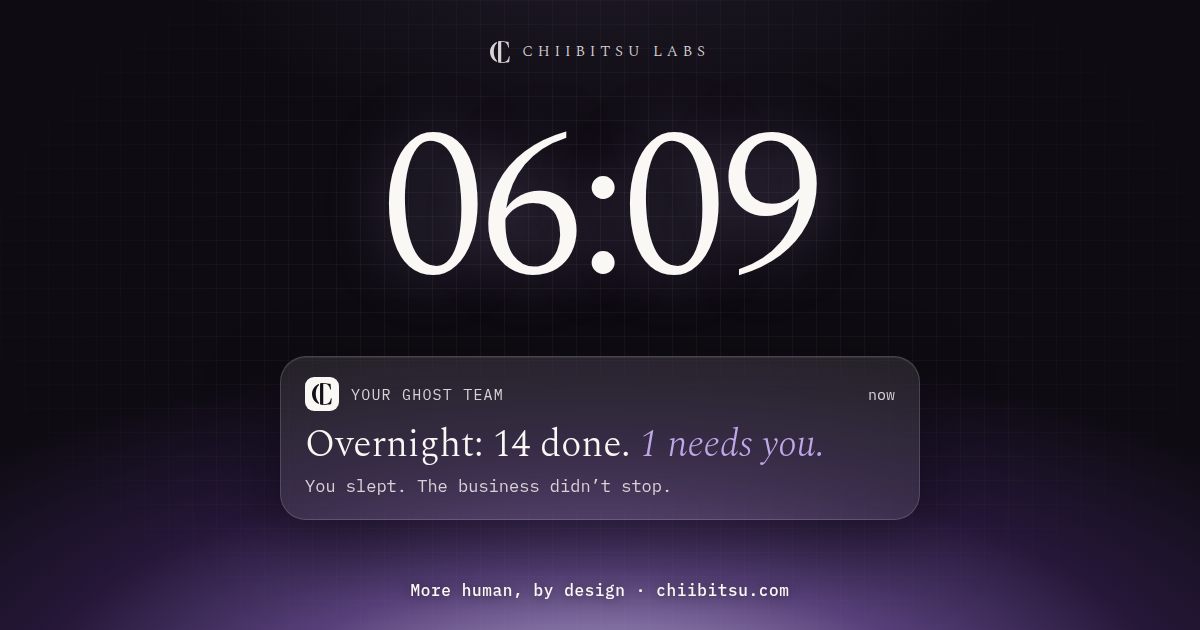
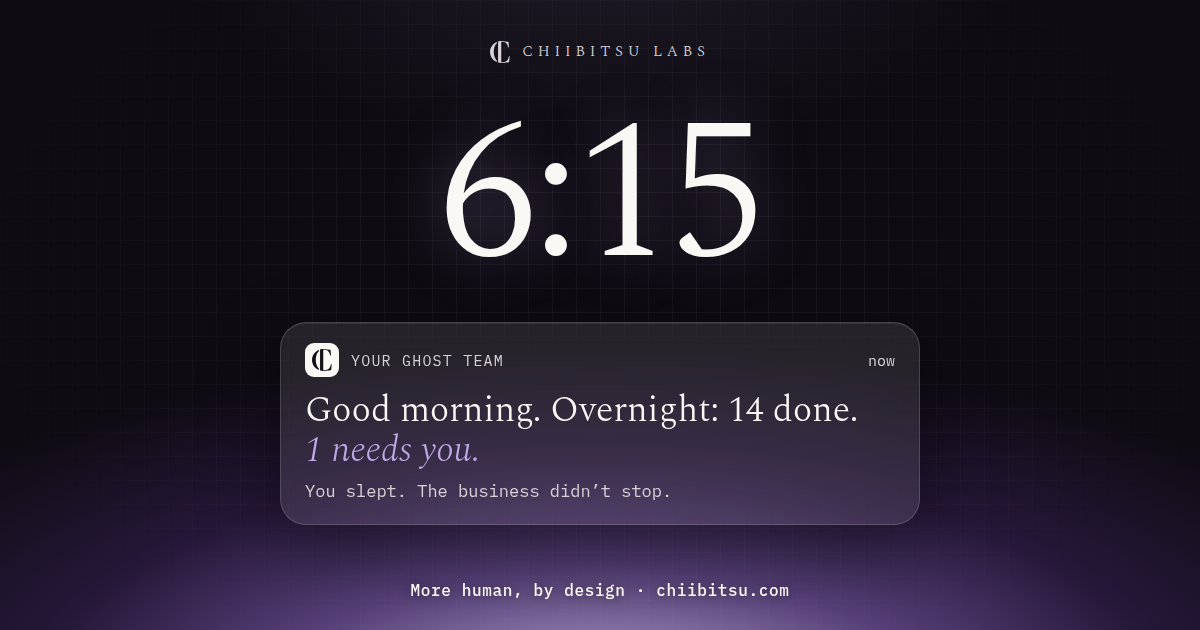
6:15 as the house time: share card and the film's morning clock, with a good morning
Claude-Session: https://claude.ai/code/session_014U3uX5UK1p1LCDLmF9v9RL

diff --git a/design/og-woah.html b/design/og-woah.html
@@ -42,16 +42,16 @@ body{background:#0E0B12;color:#FAF8F4;font-family:'IBM Plex Mono',monospace;posi
 .top svg{height:22px} .top svg path{fill:#D8D2D6}
 .top span{font-family:Spectral,serif;font-weight:300;font-size:15px;letter-spacing:.32em;text-transform:uppercase}
 .date{position:absolute;left:0;right:0;top:92px;text-align:center;font-size:20px;color:#D8D2D6;letter-spacing:.02em}
-.time{position:absolute;left:0;right:0;top:106px;text-align:center;font-family:Spectral,serif;font-weight:300;font-size:210px;line-height:1;letter-spacing:-.03em;
+.time{position:absolute;left:0;right:0;top:96px;text-align:center;font-family:Spectral,serif;font-weight:300;font-size:200px;line-height:1;letter-spacing:-.03em;
  text-shadow:0 0 60px rgba(192,168,232,.35)}
-.note{position:absolute;left:50%;top:356px;transform:translateX(-50%);width:640px;padding:20px 24px 22px;border-radius:26px;
+.note{position:absolute;left:50%;top:322px;transform:translateX(-50%);width:640px;padding:20px 24px 22px;border-radius:26px;
  background:rgba(250,248,244,.10);border:1px solid rgba(250,248,244,.16);backdrop-filter:blur(20px);
  box-shadow:0 30px 80px rgba(0,0,0,.45), inset 0 1px 0 rgba(255,255,255,.08)}
 .nh{display:flex;align-items:center;gap:12px;font-size:15px;color:#D8D2D6}
 .app{width:34px;height:34px;border-radius:9px;background:#FAF8F4;display:grid;place-items:center}
 .app svg{height:22px} .app svg path{fill:#141018}
 .nh .who{flex:1;letter-spacing:.08em;text-transform:uppercase}
-.nt{margin-top:14px;font-family:Spectral,serif;font-weight:300;font-size:38px;line-height:1.1}
+.nt{margin-top:14px;font-family:Spectral,serif;font-weight:300;font-size:36px;line-height:1.12}
 .nt em{font-style:italic;color:#C0A8E8}
 .nb{margin-top:8px;font-size:17px;color:#D8D2D6}
 .foot{position:absolute;left:0;right:0;bottom:30px;text-align:center;font-size:16px;color:#FAF8F4;font-weight:500;letter-spacing:.04em;text-shadow:0 1px 12px rgba(20,16,24,.6)}
@@ -59,11 +59,11 @@ body{background:#0E0B12;color:#FAF8F4;font-family:'IBM Plex Mono',monospace;posi
 <div class="dawn"></div><div class="grid"></div>
 <div class="top"><svg viewBox="285 203 1430 1592"><path fill-rule="evenodd" d="M870.9 1754.3 C866 1746.7 868.4 1733.6 868.4 1724.9 C868.3 1701.8 868.5 1678.8 868.6 1655.8 C868.9 1567.8 868.2 1479.8 868.2 1391.7 C868.1 1119.6 867.6 847.5 868.1 575.4 C868.2 497.4 868.4 419.3 868.3 341.3 C868.3 317.3 868.2 293.3 868.4 269.3 C868.6 260 866.4 248.2 869.9 239.5 C876.7 232.2 902.2 230.1 912.5 227.1 C945.6 217.8 1016.9 208.7 1051.9 207.3 C1135.5 204 1201.8 203.3 1285.5 213.4 C1328.2 218.5 1370.5 226.9 1412.6 234.9 C1434.1 239.1 1455.3 245.6 1476.9 249.4 C1507.4 254.9 1537.7 261.3 1568.4 265.6 C1578.2 267 1618.6 271.2 1624.6 274 C1630.2 280.5 1630 291.7 1630.8 299.8 C1632.8 321.7 1634.1 343.7 1636 365.6 C1639.2 401.5 1641 437.5 1643.7 473.4 C1646.8 512.9 1651.7 553.5 1653.6 593 C1654.3 608.4 1662.6 662.9 1657.1 673.4 C1650.4 677.1 1607.3 677.2 1601.3 672.8 C1597.6 665.4 1590.3 622.9 1587.8 611.5 C1581.6 583.5 1571.3 555.5 1560.4 529.1 C1511.6 410.2 1432.2 322.2 1308 281.8 C1288 275.3 1268.1 269.1 1247.2 265.9 C1241.3 265 1235.6 263.1 1229.6 262.2 C1199.8 257.6 1170 256 1139.9 255.9 C1130.4 255.9 1109.1 253.4 1101.7 259 C1097.7 267.4 1099.9 279.5 1099.9 288.6 C1099.9 309.6 1099.9 330.6 1099.9 351.7 C1099.9 427.7 1099.9 503.7 1100 579.7 C1100.2 849.8 1099.8 1120 1099.9 1390.1 C1099.9 1475.1 1099.8 1560.1 1099.9 1645.2 C1099.9 1666.2 1099.9 1687.2 1100 1708.2 C1100.1 1716.2 1097.8 1727.9 1103.3 1734.3 C1112.8 1739.3 1128.2 1737.5 1138.9 1738 C1169 1739.4 1198.7 1737.9 1228.8 1735.7 C1329.7 1728.3 1423.7 1700.1 1500.1 1630.6 C1539.4 1594.8 1568.6 1549.2 1592.3 1502.2 C1615.7 1456 1625.7 1415.4 1640.8 1367.1 C1644.4 1355.7 1650.4 1313 1657.2 1307 C1665.4 1304.8 1704 1304.4 1710.5 1308.6 C1715.1 1317.6 1711.3 1331.5 1710 1341.1 C1706.8 1363.9 1706 1386.9 1703.2 1409.7 C1697.6 1454.4 1694.4 1499.3 1690.4 1544.1 C1687.7 1573 1683.8 1601.8 1681.2 1630.6 C1680.3 1640.6 1680.3 1650.6 1679.3 1660.5 C1678.2 1670.5 1676.1 1680.3 1675.4 1690.3 C1674.7 1701.4 1676.4 1715.7 1670.5 1725.6 C1663.6 1731.8 1627 1738.9 1616.2 1741.1 C1568 1750.8 1532 1756.8 1483.2 1763.1 C1437.5 1769.1 1391.9 1774 1346.1 1778.8 C1242.7 1789.6 1138.8 1799.3 1034.9 1787.8 C1027.9 1787 1021.1 1785.2 1014.2 1784.3 C979.7 1779.7 953.6 1774.7 919.7 1768 C905.3 1765.1 883.3 1762 870.9 1754.3 Z"/><path fill-rule="evenodd" d="M784.2 1726.3 C770.5 1724.4 724.4 1701.1 710.5 1693.4 C638.2 1653.4 581.5 1614.2 521.7 1556.5 C434.3 1472.3 356.2 1353.2 324.4 1235.6 C319.7 1218.4 312.6 1201.4 309.2 1183.9 C300.5 1139.3 295.8 1110.8 291.4 1065.4 C283.5 984.2 286.9 900.3 304.2 820.6 C308 803 313.8 786 318.7 768.7 C346 672.5 395.1 583.1 457.7 505.2 C520.3 427.3 599.6 362.8 686.3 313.6 C702.4 304.4 769.1 269.2 783.8 268 C790 272.2 787.7 283.8 787.7 290.5 C787.7 307 790.4 352.2 786.5 365.4 C781.6 372.7 750.3 398.5 740.7 408.5 C711.4 439.2 685.1 475.2 665.5 512.9 C632.1 577.3 607.9 644.3 589.6 714.3 C583.8 736.6 580.8 759.4 576.7 782 C556.7 890.4 555.5 1019.2 568.2 1128.8 C571.5 1157.7 577.4 1186.1 582.5 1214.6 C584.8 1227.3 586.7 1240.2 589.8 1252.8 C613.3 1348.8 646.8 1443 701.8 1525.9 C717.6 1549.9 736.1 1573.2 756.7 1593.2 C765.7 1601.9 777.3 1610.3 784.8 1620.3 C789.4 1626.6 787.8 1636.3 787.9 1643.7 C787.9 1662.7 787.7 1681.7 788 1700.7 C788.1 1707.9 790.7 1721.6 784.2 1726.3 Z"/>
 </svg><span>Chiibitsu Labs</span></div>
-<div class="time">06:09</div>
+<div class="time">6:15</div>
 <div class="note">
  <div class="nh"><div class="app"><svg viewBox="285 203 1430 1592"><path fill-rule="evenodd" d="M870.9 1754.3 C866 1746.7 868.4 1733.6 868.4 1724.9 C868.3 1701.8 868.5 1678.8 868.6 1655.8 C868.9 1567.8 868.2 1479.8 868.2 1391.7 C868.1 1119.6 867.6 847.5 868.1 575.4 C868.2 497.4 868.4 419.3 868.3 341.3 C868.3 317.3 868.2 293.3 868.4 269.3 C868.6 260 866.4 248.2 869.9 239.5 C876.7 232.2 902.2 230.1 912.5 227.1 C945.6 217.8 1016.9 208.7 1051.9 207.3 C1135.5 204 1201.8 203.3 1285.5 213.4 C1328.2 218.5 1370.5 226.9 1412.6 234.9 C1434.1 239.1 1455.3 245.6 1476.9 249.4 C1507.4 254.9 1537.7 261.3 1568.4 265.6 C1578.2 267 1618.6 271.2 1624.6 274 C1630.2 280.5 1630 291.7 1630.8 299.8 C1632.8 321.7 1634.1 343.7 1636 365.6 C1639.2 401.5 1641 437.5 1643.7 473.4 C1646.8 512.9 1651.7 553.5 1653.6 593 C1654.3 608.4 1662.6 662.9 1657.1 673.4 C1650.4 677.1 1607.3 677.2 1601.3 672.8 C1597.6 665.4 1590.3 622.9 1587.8 611.5 C1581.6 583.5 1571.3 555.5 1560.4 529.1 C1511.6 410.2 1432.2 322.2 1308 281.8 C1288 275.3 1268.1 269.1 1247.2 265.9 C1241.3 265 1235.6 263.1 1229.6 262.2 C1199.8 257.6 1170 256 1139.9 255.9 C1130.4 255.9 1109.1 253.4 1101.7 259 C1097.7 267.4 1099.9 279.5 1099.9 288.6 C1099.9 309.6 1099.9 330.6 1099.9 351.7 C1099.9 427.7 1099.9 503.7 1100 579.7 C1100.2 849.8 1099.8 1120 1099.9 1390.1 C1099.9 1475.1 1099.8 1560.1 1099.9 1645.2 C1099.9 1666.2 1099.9 1687.2 1100 1708.2 C1100.1 1716.2 1097.8 1727.9 1103.3 1734.3 C1112.8 1739.3 1128.2 1737.5 1138.9 1738 C1169 1739.4 1198.7 1737.9 1228.8 1735.7 C1329.7 1728.3 1423.7 1700.1 1500.1 1630.6 C1539.4 1594.8 1568.6 1549.2 1592.3 1502.2 C1615.7 1456 1625.7 1415.4 1640.8 1367.1 C1644.4 1355.7 1650.4 1313 1657.2 1307 C1665.4 1304.8 1704 1304.4 1710.5 1308.6 C1715.1 1317.6 1711.3 1331.5 1710 1341.1 C1706.8 1363.9 1706 1386.9 1703.2 1409.7 C1697.6 1454.4 1694.4 1499.3 1690.4 1544.1 C1687.7 1573 1683.8 1601.8 1681.2 1630.6 C1680.3 1640.6 1680.3 1650.6 1679.3 1660.5 C1678.2 1670.5 1676.1 1680.3 1675.4 1690.3 C1674.7 1701.4 1676.4 1715.7 1670.5 1725.6 C1663.6 1731.8 1627 1738.9 1616.2 1741.1 C1568 1750.8 1532 1756.8 1483.2 1763.1 C1437.5 1769.1 1391.9 1774 1346.1 1778.8 C1242.7 1789.6 1138.8 1799.3 1034.9 1787.8 C1027.9 1787 1021.1 1785.2 1014.2 1784.3 C979.7 1779.7 953.6 1774.7 919.7 1768 C905.3 1765.1 883.3 1762 870.9 1754.3 Z"/><path fill-rule="evenodd" d="M784.2 1726.3 C770.5 1724.4 724.4 1701.1 710.5 1693.4 C638.2 1653.4 581.5 1614.2 521.7 1556.5 C434.3 1472.3 356.2 1353.2 324.4 1235.6 C319.7 1218.4 312.6 1201.4 309.2 1183.9 C300.5 1139.3 295.8 1110.8 291.4 1065.4 C283.5 984.2 286.9 900.3 304.2 820.6 C308 803 313.8 786 318.7 768.7 C346 672.5 395.1 583.1 457.7 505.2 C520.3 427.3 599.6 362.8 686.3 313.6 C702.4 304.4 769.1 269.2 783.8 268 C790 272.2 787.7 283.8 787.7 290.5 C787.7 307 790.4 352.2 786.5 365.4 C781.6 372.7 750.3 398.5 740.7 408.5 C711.4 439.2 685.1 475.2 665.5 512.9 C632.1 577.3 607.9 644.3 589.6 714.3 C583.8 736.6 580.8 759.4 576.7 782 C556.7 890.4 555.5 1019.2 568.2 1128.8 C571.5 1157.7 577.4 1186.1 582.5 1214.6 C584.8 1227.3 586.7 1240.2 589.8 1252.8 C613.3 1348.8 646.8 1443 701.8 1525.9 C717.6 1549.9 736.1 1573.2 756.7 1593.2 C765.7 1601.9 777.3 1610.3 784.8 1620.3 C789.4 1626.6 787.8 1636.3 787.9 1643.7 C787.9 1662.7 787.7 1681.7 788 1700.7 C788.1 1707.9 790.7 1721.6 784.2 1726.3 Z"/>
 </svg></div><span class="who">Your ghost team</span><span>now</span></div>
- <div class="nt">Overnight: 14 done. <em>1 needs you.</em></div>
+ <div class="nt">Good morning. Overnight: 14 done.<br><em>1 needs you.</em></div>
  <div class="nb">You slept. The business didn’t stop.</div>
 </div>
 <div class="foot">More human, by design · chiibitsu.com</div>

diff --git a/components/film/DayLayer.tsx b/components/film/DayLayer.tsx
@@ -14,16 +14,17 @@ const GHOSTS = [780, 920, 1060, 1200];
 // The ghost team, as on the ghost-team page: a round-topped ghost with two eyes and a scalloped hem.
 // Operations drafts, Quality checks, Finance stamps receipts, the Chief AI Officer reports to her.
 const NAMES = ["Operations", "Quality", "Finance", "CAIO"];
-// [start, end] of the clock in each of the six stages, in minutes.
+// [start, end] of the clock in each of the six stages, in minutes. The morning stage holds at 06:15, the house time
+// (Chii's birthday, as 9:41 is Apple's): every clock we show reads 6:15 when it is not moving.
 const CLOCK: [number, number][] = [
-  [6 * 60, 6 * 60 + 10],
+  [6 * 60 + 15, 6 * 60 + 15],
   [6 * 60 + 15, 6 * 60 + 30],
   [7 * 60 + 30, 8 * 60 + 15],
   [12 * 60, 16 * 60],
   [18 * 60 + 30, 19 * 60 + 30],
   [20 * 60 + 30, 20 * 60 + 45],
 ];
-const CAPTION = { morning: "Overnight: 14 done · 1 needs you.", glance: "On track.", card: "Shipped · verified · logged." };
+const CAPTION = { morning: "Good morning. Overnight: 14 done · 1 needs you.", glance: "On track.", card: "Shipped · verified · logged." };
 
 const pad = (n: number) => String(n).padStart(2, "0");
 const clock = (m: number) => `${pad(Math.floor(m / 60))}:${pad(Math.floor(m % 60))}`;
@@ -247,7 +248,7 @@ export function DayLayer() {
     <div ref={root} className="day" aria-hidden="true">
       <div className="day-inner">
         <div className="day-hud">
-          <span className="day-clock" data-k="clock">06:00</span>
+          <span className="day-clock" data-k="clock">06:15</span>
           <span className="day-cap" data-k="cap">{CAPTION.morning}</span>
         </div>
         <svg className="day-art" viewBox={`${VB.x} ${VB.y} ${VB.w} ${VB.h}`} preserveAspectRatio="xMidYMax meet" fill="none" strokeLinecap="round" strokeLinejoin="round">

diff --git a/app/layout.tsx b/app/layout.tsx
@@ -5,7 +5,7 @@ import { bootScript } from "@/lib/boot";
 import { content } from "@/lib/content";
 import "./globals.css";
 
-// The share card (app/opengraph-image.png, 1200x630, source design/og-woah.html): a 06:09 lock screen with one notification from the ghost team.
+// The share card (app/opengraph-image.png, 1200x630, source design/og-woah.html): a 6:15 lock screen with one notification from the ghost team.
 export const metadata: Metadata = {
   metadataBase: new URL("https://www.chiibitsu.com"),
   title: content.meta.title,
